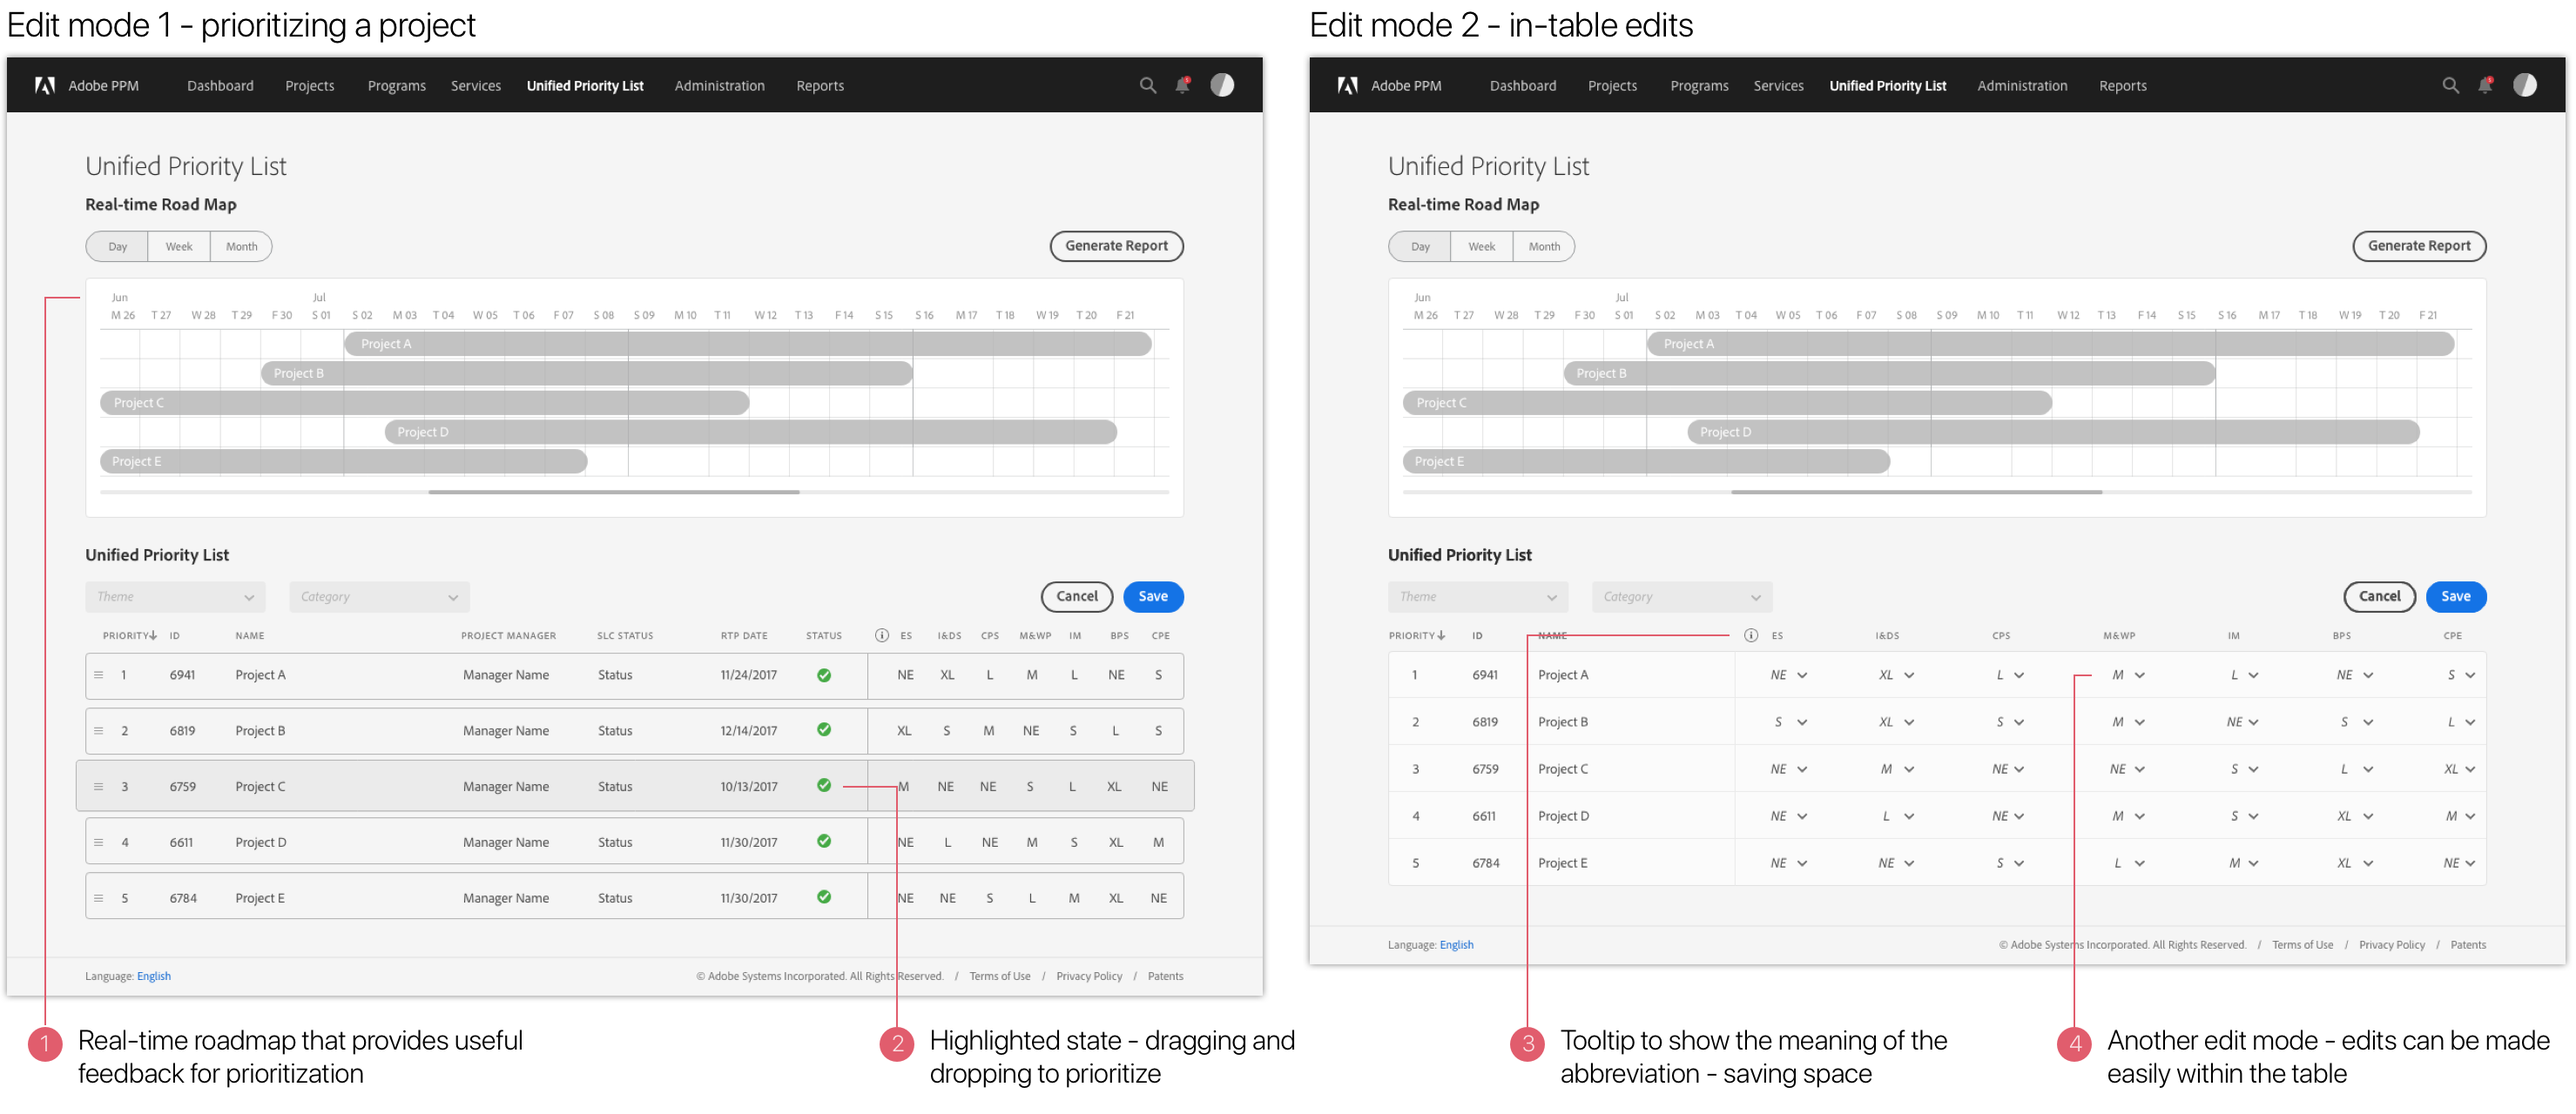
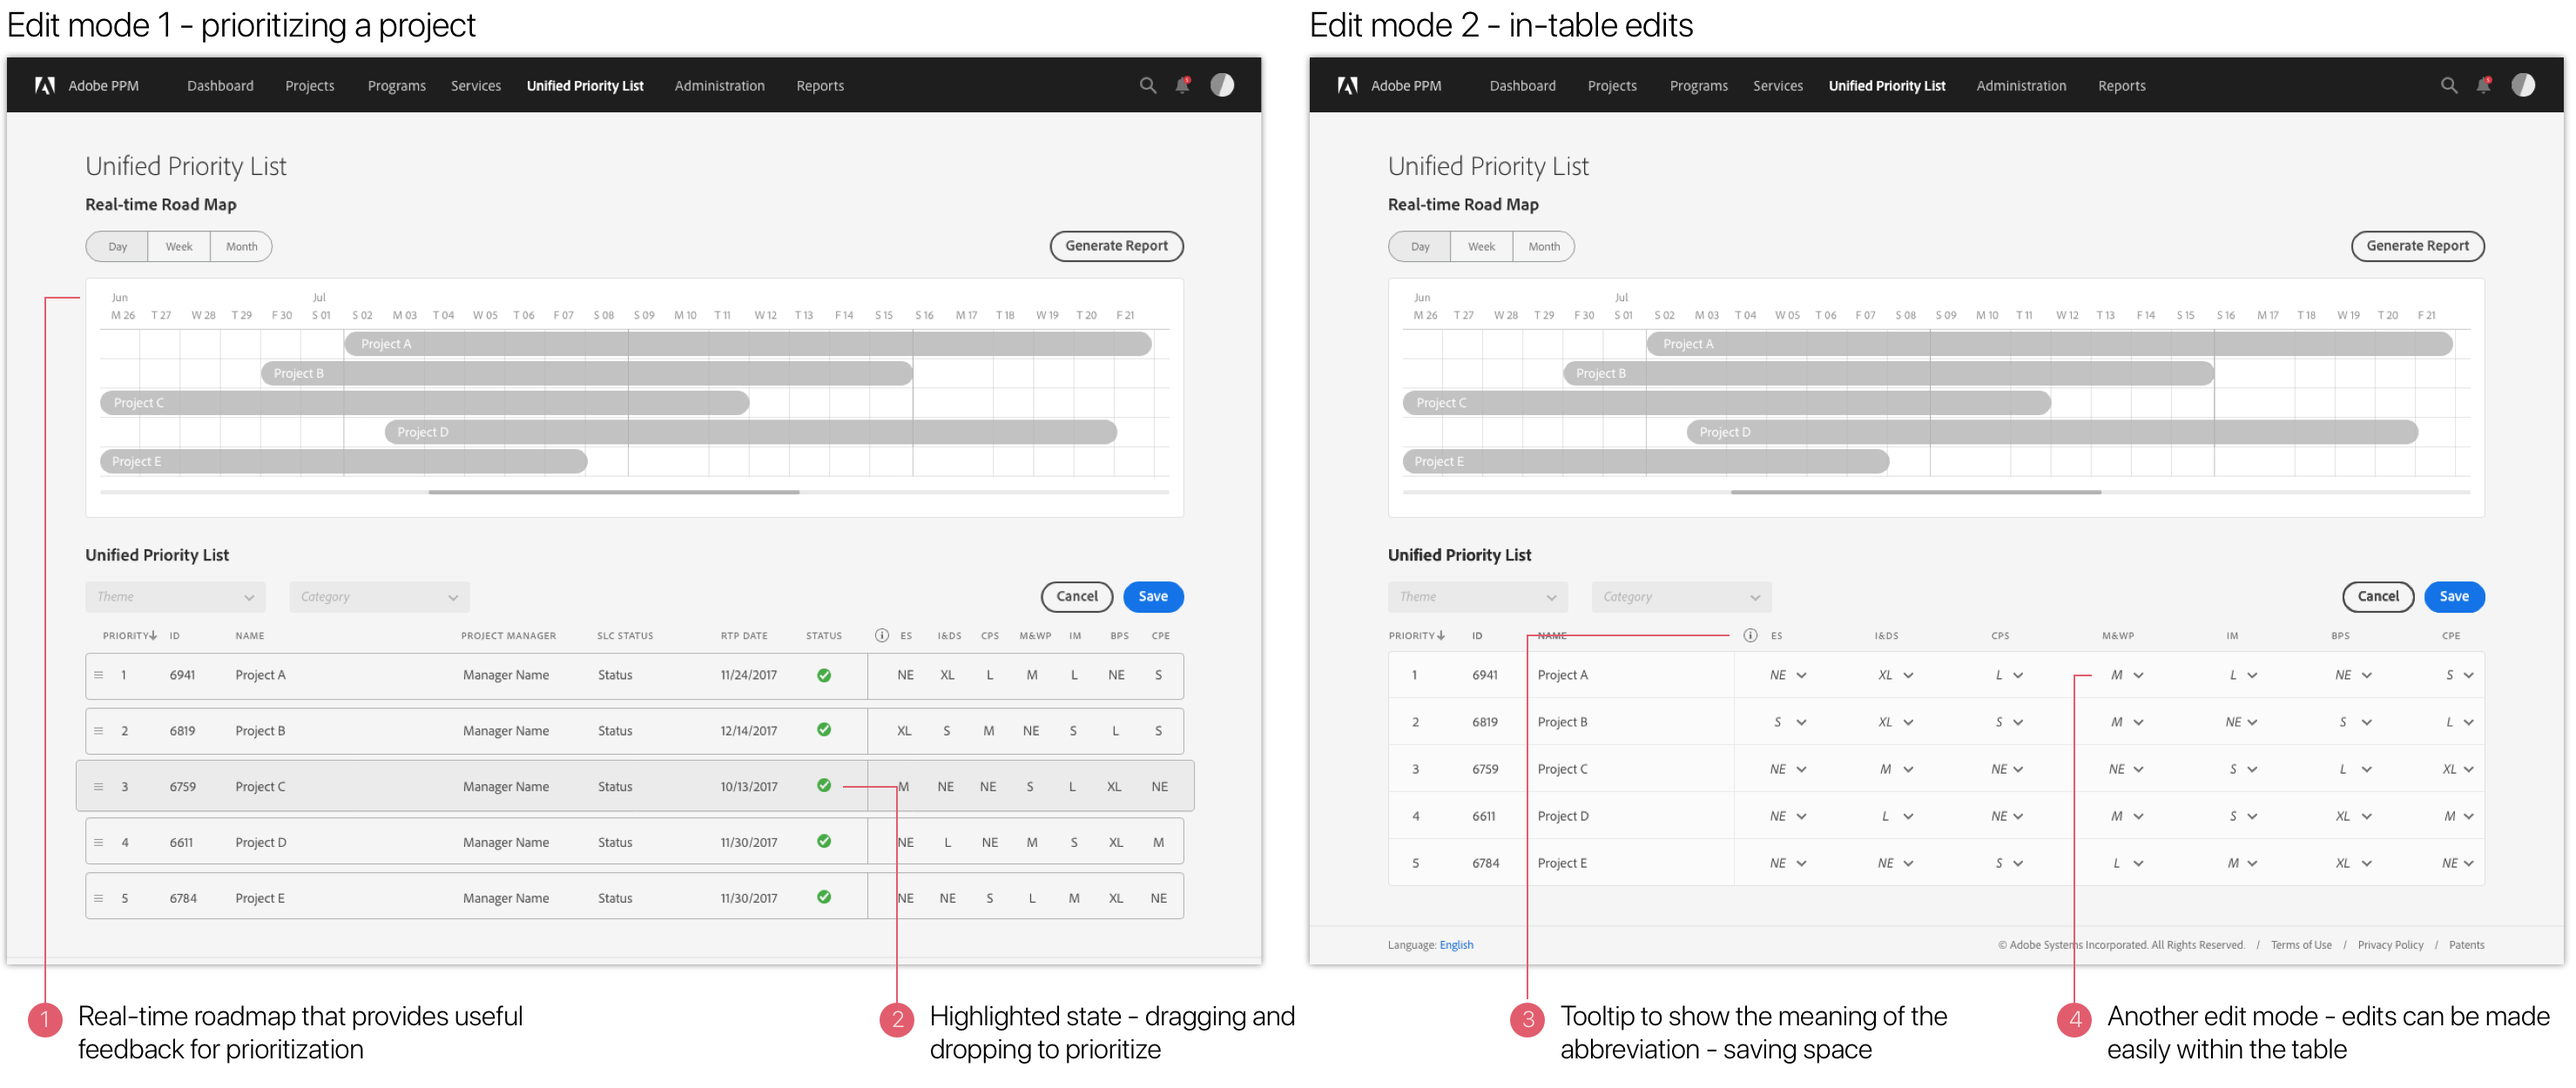
recent updates

diff --git a/pages/adobe.html b/pages/adobe.html
@@ -373,9 +373,9 @@
             As a result, I designed an efficient and clear project list with searching, sorting and filtering functions.
           </p>
           <div class="image-box">
-            <a class="example-image-link" href="image/adobe/critique4.png"
+            <a class="example-image-link" href="image/adobe/critique4-copy.png"
             data-lightbox="example-set" data-title="">
-              <img class="example-image" src="image/adobe/critique4.png" alt=""/>
+              <img class="example-image" src="image/adobe/critique4-copy.png" alt=""/>
             </a>
             <h4  class="center" style="margin-bottom:0px;">
               <i>Project List &amp; Filters</i>
